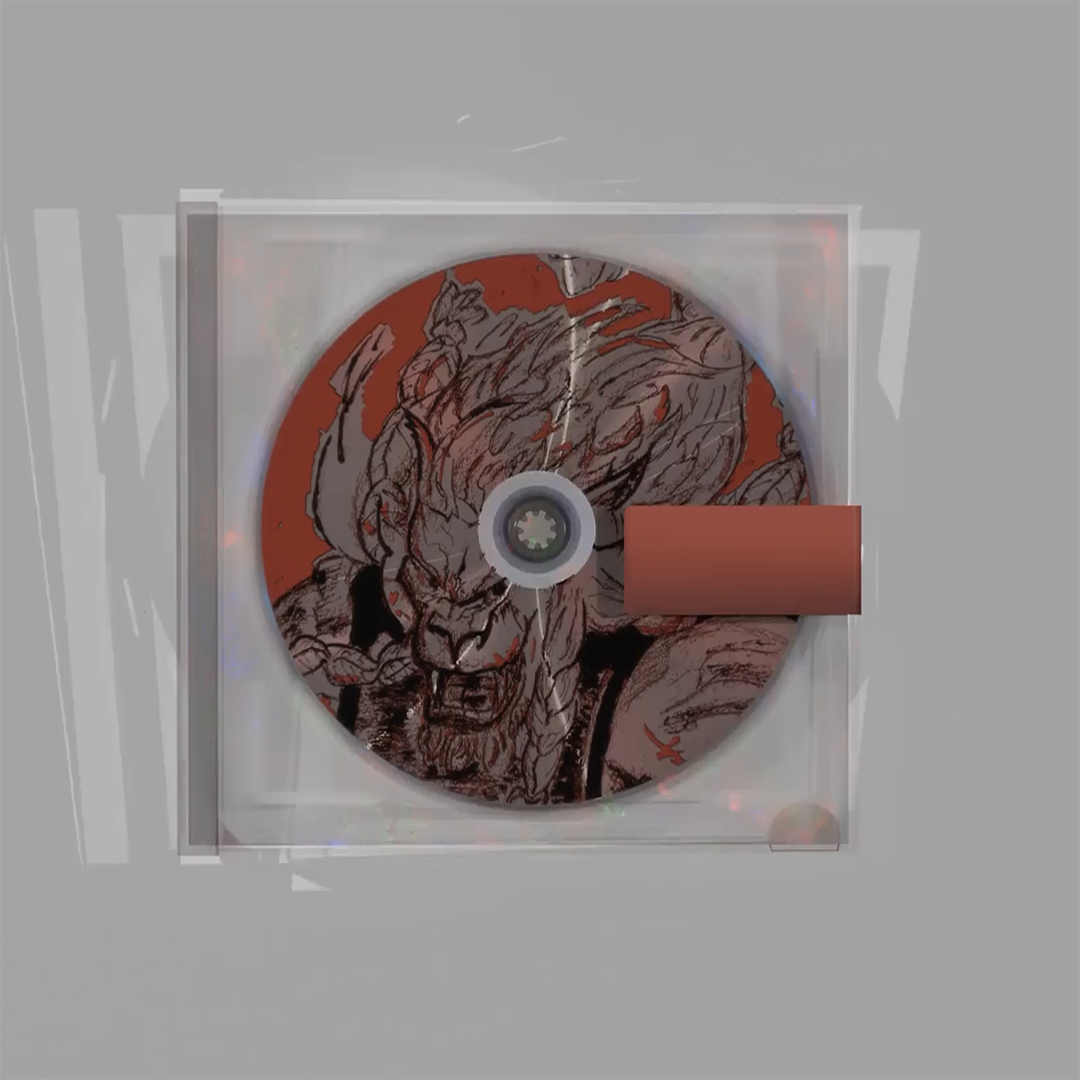
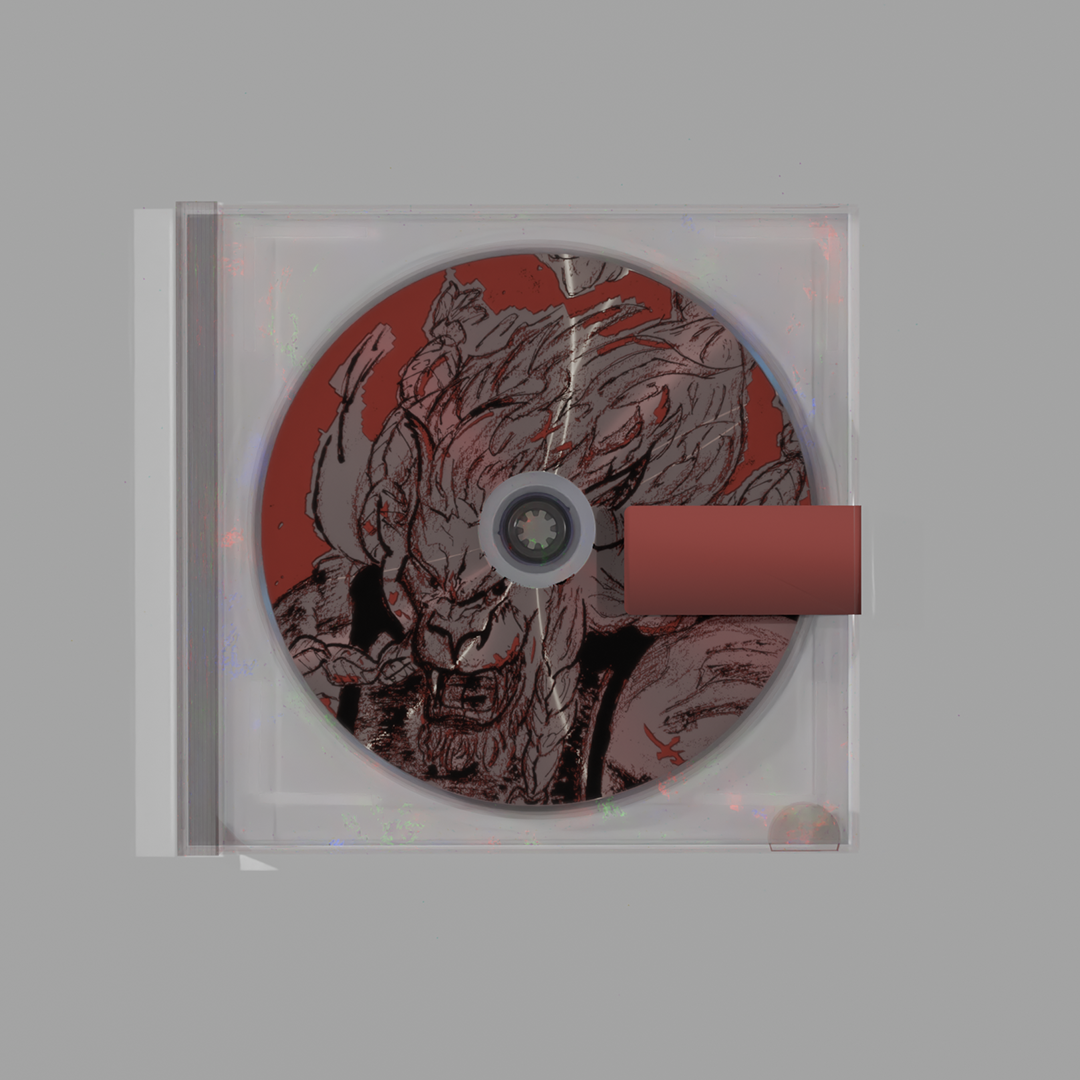
Update

diff --git a/index.html b/index.html
@@ -24,9 +24,9 @@
     <div class="hero-bg">
       <header class="container-fluid py-3 px-4">
         <nav class="navbar navbar-expand-lg mb-0 mb-lg-5">
-         <!-- <a href="/" class="navbar-brand">
-            <img src="assets/img/logo.png" alt="logo" />
-          </a> -->
+          <a href="/" class="navbar-brand">
+            <img src="assets/img/logo.gif" alt="logo" />
+          </a>
   
           <button class="navbar-toggler toggler" type="button" data-bs-toggle="collapse" data-bs-target="#navbarSupportedContent" aria-controls="navbarSupportedContent" aria-expanded="false" aria-label="Toggle navigation">
             <i class="fa-solid fa-bars"></i>
@@ -53,8 +53,7 @@
   <figure>
   <img class="lion" src="assets\img\liondisc.png" alt="Static Image" data-alt="assets\img\liondisc.gif">
 </figure>
-          <div class="col-lg-6">
-          </div>
+
         </div>
       </header> 
     </div>
@@ -65,6 +64,7 @@
       integrity="sha384-MrcW6ZMFYlzcLA8Nl+NtUVF0sA7MsXsP1UyJoMp4YLEuNSfAP+JcXn/tWtIaxVXM"
       crossorigin="anonymous"
     ></script>
+
 
 
     <script

diff --git a/style.css b/style.css
@@ -16,7 +16,7 @@
 
 body{
   overflow-x: hidden;
-  background-color: #89898a;
+  background-color: #a3a3a3;
 }
 
 html{
@@ -28,8 +28,11 @@ html{
   height: 100dvh;
   overflow: hidden;
 }
-.lion {
 
+@media (min-width: 1000px){
+.lion {
+  width: 40dvw;
+}
 }
 /* resuable styles */
 .section-heading{
@@ -50,8 +53,13 @@ header{
 
 /* nav style */
 nav {
-  width: 100%;
+  width: 80%;
   font-family: 'Space Grotesk', sans-serif;
+}
+
+.navbar-brand {
+  scale: 30%;
+
 }
 
 .toggler {
@@ -97,7 +105,7 @@ nav {
 .hero-bg{
   min-height: 100vh;
   width: 100%;
-  background-color: #8a8a8a;
+  background-color: #a3a3a3;
   background-size: cover;
   background-position: center;
   position: relative;
